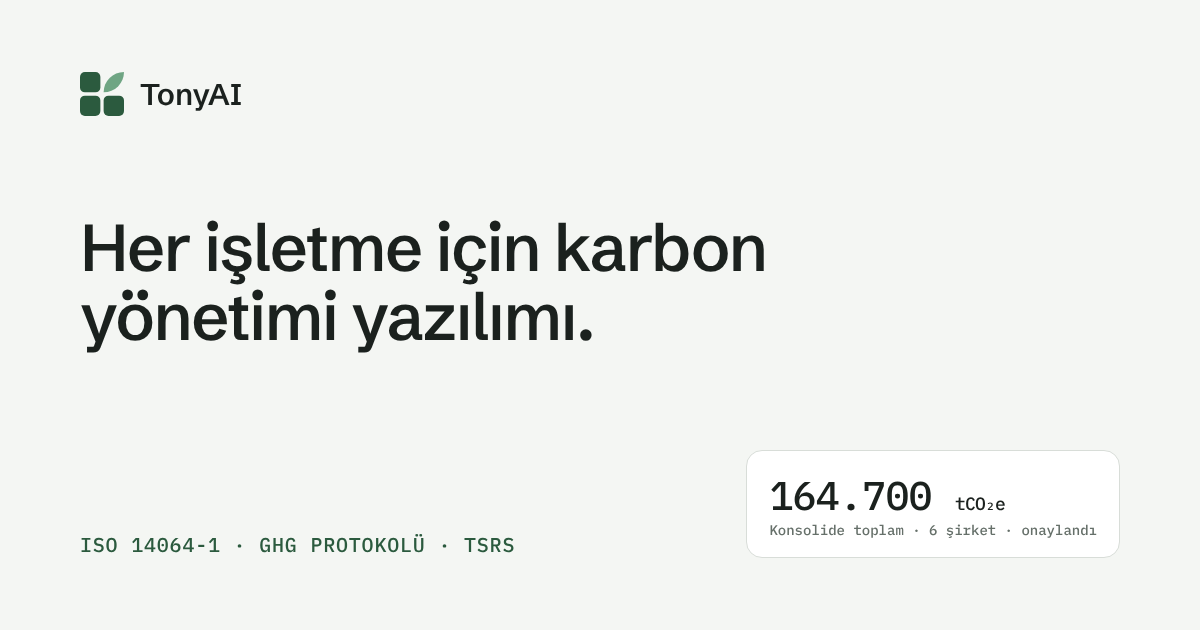
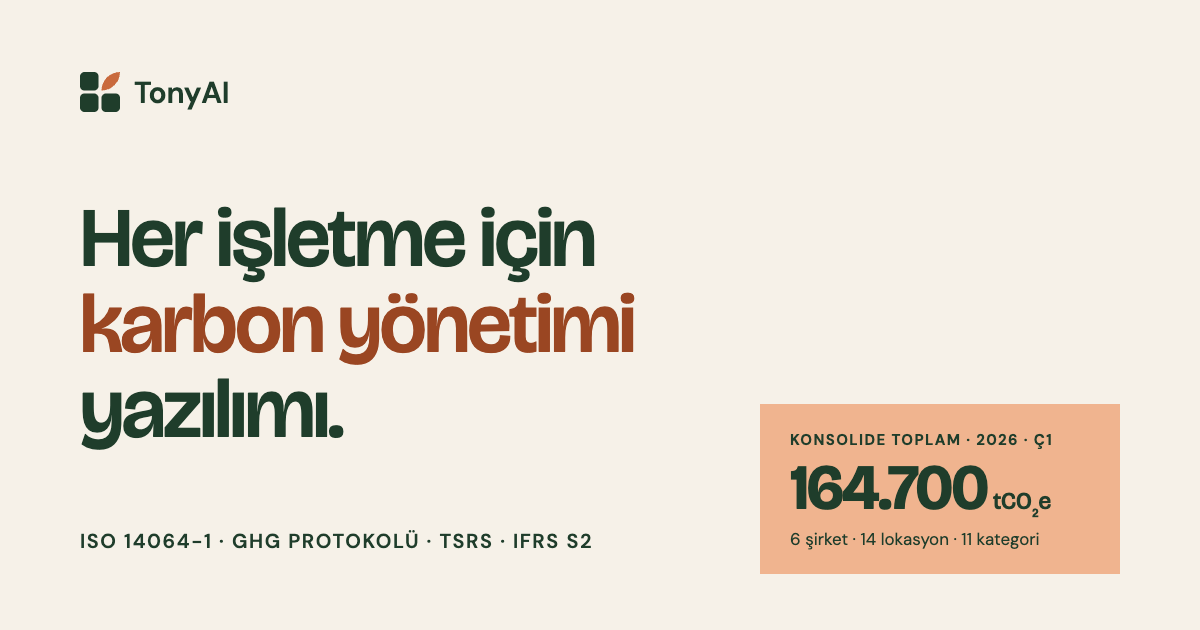
Bring every remaining colour on the site into the palette
The footer logo, the shared forms (text, field borders, errors), the
page ground, the skip link, the theme colour, the favicon, the iOS icon
and the share image now use only the homepage palette. Field borders
move to #4d5a52 so they meet 3:1. The logo's dark colours are read from
CSS variables that fall back to the old values, so looks C and D are
unchanged.

diff --git a/components/looks/home/look.css b/components/looks/home/look.css
@@ -7,8 +7,6 @@
 
 .look-h {
   --h-moss: #1f3d2b;
-  --h-moss-2: #2a4f39;
-  --h-moss-3: #38654a;
   --h-moss-deep: #17301f;
   --h-sage: #9ec8a9;
   --h-sage-2: #c9d6c6;
@@ -19,8 +17,7 @@
   --h-sand-2: #e3d7c2;
   --h-sand-3: #d3c3a6;        /* rules on sand */
   --h-paper: #f6f1e8;
-  --h-on-moss-2: #c9d6c6;
-  --h-ink-2: #4d5a52;         /* secondary text on sand and paper */
+  --h-ink-2: #4d5a52;         /* secondary text on sand and paper; form field borders (6.4:1) */
 
   --h-font: "DM Sans Variable", "DM Sans", "Helvetica Neue", Arial, sans-serif;
   --h-display: "Bricolage Grotesque Variable", "Bricolage Grotesque", Georgia, serif;
@@ -44,6 +41,9 @@
   --forest: var(--h-moss);
   --leaf: var(--h-terra);
   --ink: var(--h-moss);
+  --logo-dark-block: var(--h-paper);
+  --logo-dark-leaf: var(--h-terra-light);
+  --logo-dark-text: var(--h-paper);
 
   position: relative;
   min-height: 100vh;
@@ -69,7 +69,7 @@
 .look-h .h-sand { background: var(--h-sand); --h-rule: var(--h-sand-3); --h-meter-off: var(--h-sand-3); }
 .look-h .h-moss {
   background: var(--h-moss); color: var(--h-paper);
-  --h-fg: var(--h-paper); --h-fg-2: var(--h-on-moss-2); --h-accent: var(--h-terra-light); --h-rule: rgba(255, 255, 255, 0.2); --h-meter-off: rgba(255, 255, 255, 0.22);
+  --h-fg: var(--h-paper); --h-fg-2: var(--h-sage-2); --h-accent: var(--h-terra-light); --h-rule: rgba(246, 241, 232, 0.2); --h-meter-off: rgba(246, 241, 232, 0.22);
 }
 .look-h .h-moss :is(.h-sand, .h-paper) { color: var(--h-moss); --h-fg: var(--h-moss); --h-fg-2: var(--h-moss); --h-accent: var(--h-terra-ink); --h-rule: var(--h-sand-3); --h-meter-off: var(--h-sand-3); }
 
@@ -222,7 +222,7 @@
 .look-h .h-diff-grid li { display: grid; gap: 0.8rem; align-content: start; }
 .look-h .h-diff-grid .h-ico, .look-h .h-modules .h-ico { color: var(--h-accent); margin-bottom: 0.4rem; }
 .look-h .h-diff-grid .h-h3 { color: var(--h-terra-light); }
-.look-h .h-diff-grid p { color: var(--h-on-moss-2); }
+.look-h .h-diff-grid p { color: var(--h-sage-2); }
 .look-h .h-h3-lg span { display: block; margin-top: 0.35rem; font-size: 0.8125rem; font-weight: 600; letter-spacing: 0.09em; text-transform: uppercase; color: var(--h-fg-2); }
 @media (max-width: 899px) {
   .look-h .h-diff-grid { grid-template-columns: minmax(0, 1fr); }
@@ -290,10 +290,10 @@
 }
 
 /* ---------- Compliance and the audit lens ---------- */
-.look-h .h-comp .h-lead { color: var(--h-on-moss-2); }
+.look-h .h-comp .h-lead { color: var(--h-sage-2); }
 .look-h .h-lens { margin-top: clamp(3rem, 6vw, 5rem); }
 .look-h .h-lens-base, .look-h .h-lens-handle, .look-h .h-lens-hint { display: none; }
-.look-h .h-lens-detail { display: grid; grid-template-columns: repeat(auto-fit, minmax(13rem, 1fr)); gap: 1px; background: rgba(255, 255, 255, 0.2); border: 1px solid rgba(255, 255, 255, 0.2); }
+.look-h .h-lens-detail { display: grid; grid-template-columns: repeat(auto-fit, minmax(13rem, 1fr)); gap: 1px; background: rgba(246, 241, 232, 0.2); border: 1px solid rgba(246, 241, 232, 0.2); }
 .look-h .h-lens-cell { display: grid; align-content: center; gap: 0.5rem; padding: 1.25rem 1.1rem; background: var(--h-moss); }
 .look-h .h-lens-k { font-size: 0.75rem; font-weight: 600; letter-spacing: 0.09em; text-transform: uppercase; color: var(--h-terra-light); }
 .look-h .h-lens-v { font-size: 1.0625rem; font-weight: 500; line-height: 1.35; font-variant-numeric: tabular-nums; }
@@ -335,14 +335,14 @@
     background: var(--h-terra-light); color: var(--h-moss); padding: 0.45rem 0.9rem 0.85rem; clip-path: polygon(0 0, 100% 0, 100% 68%, 50% 100%, 0 68%);
     font-size: 0.6875rem; font-weight: 700; letter-spacing: 0.1em; text-transform: uppercase;
   }
-  .look-h .h-lens-hint { display: block; font-size: 0.9375rem; color: var(--h-on-moss-2); }
+  .look-h .h-lens-hint { display: block; font-size: 0.9375rem; color: var(--h-sage-2); }
 }
 
 .look-h .h-standards { display: grid; grid-template-columns: repeat(4, minmax(0, 1fr)); gap: 2.5rem clamp(1.5rem, 3vw, 3rem); margin-top: clamp(3.5rem, 7vw, 6rem); }
 .look-h .h-standards li { display: grid; gap: 0.5rem; align-content: start; padding-top: 1.5rem; border-top: 1px solid var(--h-rule); }
-.look-h .h-standards .h-cap { font-size: 0.75rem; color: var(--h-on-moss-2); }
+.look-h .h-standards .h-cap { font-size: 0.75rem; color: var(--h-sage-2); }
 .look-h .h-standards .h-h3 { font-size: 1.6rem; font-weight: 700; color: var(--h-terra-light); }
-.look-h .h-standards p, .look-h .h-comp-cols p { color: var(--h-on-moss-2); }
+.look-h .h-standards p, .look-h .h-comp-cols p { color: var(--h-sage-2); }
 .look-h .h-comp-cols { display: grid; grid-template-columns: minmax(0, 7fr) minmax(0, 5fr); gap: 2.5rem clamp(2rem, 5vw, 5rem); margin-top: clamp(3rem, 6vw, 5rem); }
 .look-h .h-comp-cols > div { display: grid; gap: 1rem; align-content: start; }
 .look-h .h-ticks { display: grid; gap: 0.8rem; }
@@ -363,7 +363,7 @@
 .look-h .h-ba .h-ticks { font-size: 1.125rem; }
 .look-h .h-proof-foot { border-bottom: clamp(2rem, 4vw, 3.5rem) solid var(--h-moss); }
 .look-h .h-proof-said { grid-column: 1 / 3; background: var(--h-moss); color: var(--h-paper); padding: var(--h-pad) clamp(2rem, 5vw, 5rem) var(--h-pad) max(var(--h-gutter), calc((100vw - var(--h-main) - var(--h-side)) / 2)); display: grid; gap: 1.25rem; align-content: center; }
-.look-h .h-proof-said .h-disclaimer { color: var(--h-on-moss-2); }
+.look-h .h-proof-said .h-disclaimer { color: var(--h-sage-2); }
 .look-h .h-proof-figure { grid-column: 3 / -1; position: relative; display: grid; align-content: end; justify-items: start; padding-top: var(--h-pad); min-width: 0; }
 .look-h .h-proof-num { display: block; font-size: clamp(4.5rem, 9.8vw, 8.8rem); font-weight: 700; letter-spacing: -0.045em; line-height: 0.8; font-variant-numeric: tabular-nums; white-space: nowrap; }
 .look-h .h-proof-unit { order: -2; font-size: clamp(1.75rem, 3.4vw, 3rem); font-weight: 700; letter-spacing: -0.02em; line-height: 1; color: var(--h-terra-ink); margin: 0 0 0.35em clamp(2rem, 4.6vw, 4.25rem); }
@@ -398,14 +398,14 @@
 /* ---------- Footer ---------- */
 .look-h .h-footer { background: var(--h-moss-deep); padding-block: clamp(3.5rem, 6vw, 5.5rem) 2rem; }
 .look-h .h-footer-top { display: grid; grid-template-columns: minmax(0, 5fr) minmax(0, 7fr); gap: 3rem clamp(2rem, 5vw, 5rem); }
-.look-h .h-footer-brand { display: grid; gap: 0.6rem; justify-items: start; align-content: start; color: var(--h-on-moss-2); }
+.look-h .h-footer-brand { display: grid; gap: 0.6rem; justify-items: start; align-content: start; color: var(--h-sage-2); }
 .look-h .h-footer-brand p { margin-top: 0.75rem; max-width: 20rem; font-size: 1.125rem; font-weight: 300; color: var(--h-paper); }
 .look-h .h-footer-brand a { display: inline-flex; align-items: center; min-height: 2.75rem; color: var(--h-terra-light); font-weight: 600; }
 .look-h .h-footer-cols { display: grid; grid-template-columns: repeat(3, minmax(0, 1fr)); gap: 2rem; }
 .look-h .h-footer h3 { font-size: 0.8125rem; font-weight: 600; letter-spacing: 0.09em; text-transform: uppercase; color: var(--h-terra-light); margin-bottom: 0.5rem; }
-.look-h .h-footer li a { display: inline-flex; align-items: center; min-height: 2.75rem; color: var(--h-on-moss-2); transition: color 0.2s; }
+.look-h .h-footer li a { display: inline-flex; align-items: center; min-height: 2.75rem; color: var(--h-sage-2); transition: color 0.2s; }
 .look-h .h-footer li a:hover { color: var(--h-paper); }
-.look-h .h-footer-bottom { display: flex; flex-wrap: wrap; justify-content: space-between; align-items: center; gap: 0.5rem 2rem; margin-top: 3rem; padding-top: 1rem; border-top: 1px solid rgba(255, 255, 255, 0.16); font-size: 0.875rem; color: var(--h-on-moss-2); }
+.look-h .h-footer-bottom { display: flex; flex-wrap: wrap; justify-content: space-between; align-items: center; gap: 0.5rem 2rem; margin-top: 3rem; padding-top: 1rem; border-top: 1px solid rgba(246, 241, 232, 0.16); font-size: 0.875rem; color: var(--h-sage-2); }
 .look-h .h-footer-bottom ul { display: flex; flex-wrap: wrap; gap: 0 1.75rem; }
 @media (max-width: 899px) {
   .look-h .h-footer-top { grid-template-columns: minmax(0, 1fr); }
@@ -450,7 +450,7 @@
 .look-h .h-principles li { display: grid; gap: 0.6rem; align-content: start; padding-top: 1.5rem; border-top: 1px solid var(--h-rule); }
 .look-h .h-principles-n { font-size: 2.75rem; font-weight: 800; letter-spacing: -0.03em; line-height: 1; color: var(--h-terra-light); }
 .look-h .h-principles .h-h3 { font-size: 1.4rem; font-weight: 700; margin-top: 0.4rem; }
-.look-h .h-principles p { color: var(--h-on-moss-2); }
+.look-h .h-principles p { color: var(--h-sage-2); }
 .look-h .h-team { display: grid; }
 .look-h .h-team li { display: grid; grid-template-columns: auto minmax(0, 1fr) auto; gap: 1.25rem; align-items: center; padding-block: 1.25rem; border-bottom: 1px solid var(--h-rule); }
 .look-h .h-team li:first-child { border-top: 1px solid var(--h-rule); }
@@ -504,12 +504,16 @@
 .look-h .h-contact > .h-panel { align-self: start; margin-bottom: var(--h-band); }
 .look-h .h-contact .h-panel-in { gap: 1.75rem; }
 .look-h .h-contact-steps { display: grid; gap: 1rem; }
-.look-h .h-contact-steps li { display: grid; grid-template-columns: 2.25rem minmax(0, 1fr); gap: 0.75rem; color: var(--h-on-moss-2); }
+.look-h .h-contact-steps li { display: grid; grid-template-columns: 2.25rem minmax(0, 1fr); gap: 0.75rem; color: var(--h-sage-2); }
 .look-h .h-contact-steps span { font-weight: 800; color: var(--h-terra-light); }
 .look-h .h-contact-note { padding: 0.8rem 1rem; border: 1px solid var(--h-terra-light); font-size: 0.9375rem; }
-.look-h .h-contact .h-cap { color: var(--h-on-moss-2); font-size: 0.75rem; }
+.look-h .h-contact .h-cap { color: var(--h-sage-2); font-size: 0.75rem; }
 .look-h .h-contact-mail { display: inline-flex; align-items: center; min-height: 2.75rem; font-size: 1.25rem; font-weight: 600; color: var(--h-terra-light); }
-.look-h .h-form { --ink-2: var(--h-moss); --ink-3: #4d5a52; --line: var(--h-sand-2); --line-2: #c2ae8c; --surface: var(--h-paper); --forest-tint: var(--h-paper); }
+.look-h .h-form {
+  --ink: var(--h-moss); --ink-2: var(--h-moss); --ink-3: var(--h-ink-2);
+  --line: var(--h-sand-2); --line-2: var(--h-ink-2); --surface: var(--h-paper); --forest-tint: var(--h-paper);
+  --miss-fg: var(--h-terra-ink); --miss-bg: var(--h-sand);
+}
 .look-h .h-form :is(form, [role="status"]) { background: var(--h-paper); border: 0; border-top: 4px solid var(--h-terra-light); border-radius: 0; padding: clamp(1.5rem, 3.5vw, 2.75rem); }
 .look-h .h-form :is(input:not([type="checkbox"]), select, textarea) { border-radius: 0; border-width: 1.5px; font-family: inherit; color: var(--h-moss); }
 .look-h .h-form :is(input, select, textarea):focus-visible { outline: 2px solid var(--h-moss); outline-offset: 2px; border-radius: 0; }
@@ -549,4 +553,8 @@
 .look-h .h-legal section { display: grid; gap: 0.5rem; padding-top: 1.5rem; border-top: 1px solid var(--h-rule); }
 .look-h .h-legal section p { color: var(--h-ink-2); }
 .look-h .h-notfound .h-btn { margin-top: 2.5rem; }
+
+/* Outside .look-h: the body behind the page and the skip link, in the palette's paper and moss */
+body:has(.look-h) { background: #f6f1e8; }
+body:has(.look-h) .skip-link { background: #1f3d2b; color: #f6f1e8; border-radius: 0; }
 

diff --git a/components/Logo.tsx b/components/Logo.tsx
@@ -1,7 +1,7 @@
 /** Logo D "Grup": three company blocks and a leaf. Inline SVG so it inherits size and theme. */
 export function Mark({ size = 28, dark = false, className = "" }: { size?: number; dark?: boolean; className?: string }) {
-  const block = dark ? "#FFFFFF" : "var(--forest)";
-  const leaf = dark ? "#9CC7AC" : "var(--leaf)";
+  const block = dark ? "var(--logo-dark-block, #FFFFFF)" : "var(--forest)";
+  const leaf = dark ? "var(--logo-dark-leaf, #9CC7AC)" : "var(--leaf)";
   return (
     <svg width={size} height={size} viewBox="5 5 54 54" aria-hidden="true" className={className}>
       <rect x="5" y="5" width="25" height="25" rx="6" fill={block} />
@@ -16,7 +16,7 @@ export function Logo({ dark = false }: { dark?: boolean }) {
   return (
     <span className="inline-flex items-center gap-2.5">
       <Mark size={26} dark={dark} />
-      <span className="text-[1.2rem] font-[600] tracking-[-0.01em]" style={{ color: dark ? "#fff" : "var(--ink)" }}>TonyAI</span>
+      <span className="text-[1.2rem] font-[600] tracking-[-0.01em]" style={{ color: dark ? "var(--logo-dark-text, #fff)" : "var(--ink)" }}>TonyAI</span>
     </span>
   );
 }

diff --git a/app/layout.tsx b/app/layout.tsx
@@ -42,7 +42,7 @@ export const metadata: Metadata = {
   alternates: { canonical: "/" },
 };
 
-export const viewport: Viewport = { themeColor: "#f4f6f3", width: "device-width", initialScale: 1 };
+export const viewport: Viewport = { themeColor: "#f6f1e8", width: "device-width", initialScale: 1 };
 
 export default function RootLayout({ children }: { children: React.ReactNode }) {
   return (
